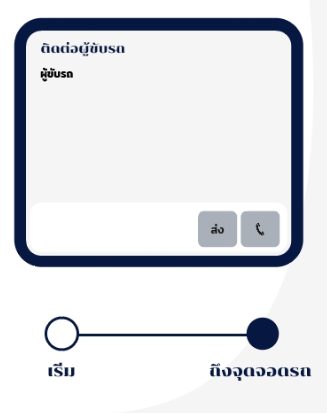
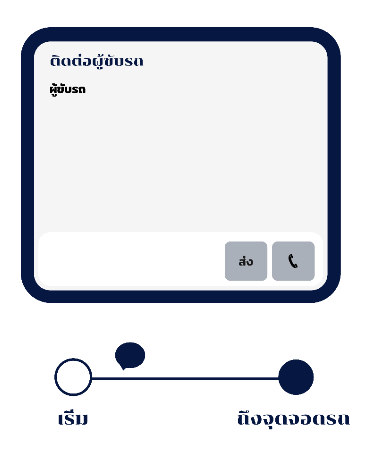
d

diff --git a/src/pages/selectDriver/SelectDriverPage.vue b/src/pages/selectDriver/SelectDriverPage.vue
@@ -1,7 +1,8 @@
 <template>
   <div class="bg">
-    <div class="container pt-3">
-      <div class="row driver pb-3 pt-3">
+    <div class="container pt-5">
+      <img src="../../assets/select.png" />
+      <!-- <div class="row driver pb-3 pt-3">
         <div class="name col-12 mt-3">
           <div class="row">
             <img class="col-3 picture ml-auto" src="https://via.placeholder.com/150" />
@@ -26,12 +27,13 @@
       </div>
       <div class="detail2 mt-5">
         <h4>สถานะผู้ขับรถ</h4>
-        <img class="img-fluid col-5 maps" src="../../assets/driver-status.png"/>
-      </div>
-      <div class="btn-group mt-5">
+        <img class="img-fluid col-5 maps" src="../../assets/driver-status.png" />
+      </div>-->
+      <!-- <div class="btn-group mt-5">
         <button class="pl-3 pr-3 pt-2 pb-1" @click="handlePark">รับ</button>
         <button class="pl-3 pr-3 ml-3 pt-2 pb-1" @click="handleHome">ยกเลิก</button>
-      </div>
+      </div>-->
+      <img src="../../assets/select2.png" @click="handlePark"/>
     </div>
   </div>
 </template>
@@ -55,6 +57,13 @@ export default Vue.extend({
   border-collapse: separate;
 }
 
+
+h2,
+h4,
+button {
+  font-family: "Kanit", sans-serif;
+}
+
 h2 {
   @media only screen and (max-width: 766px) {
     font-size: 1.3rem;
@@ -66,7 +75,6 @@ h4 {
   }
 }
 .bg {
-  background-color: #00298e;
   height: 100%;
 }
 

diff --git a/src/pages/register/RegisterPage.vue b/src/pages/register/RegisterPage.vue
@@ -5,7 +5,7 @@
       <div class="form col-12">
         <label for="name">ชื่อ</label>
         <input name="name" id="name" v-model="form.name" />
-        <label class="mt-3" for="license-plate">ทะเบียน</label>
+        <label class="mt-3" for="license-plate">ทะเบียนรถ</label>
         <input name="license-plate" id="license-plate" v-model="form.license" />
         <label class="mt-3">ยี่ห้อ</label>
         <select name="cars" v-model="form.brand">
